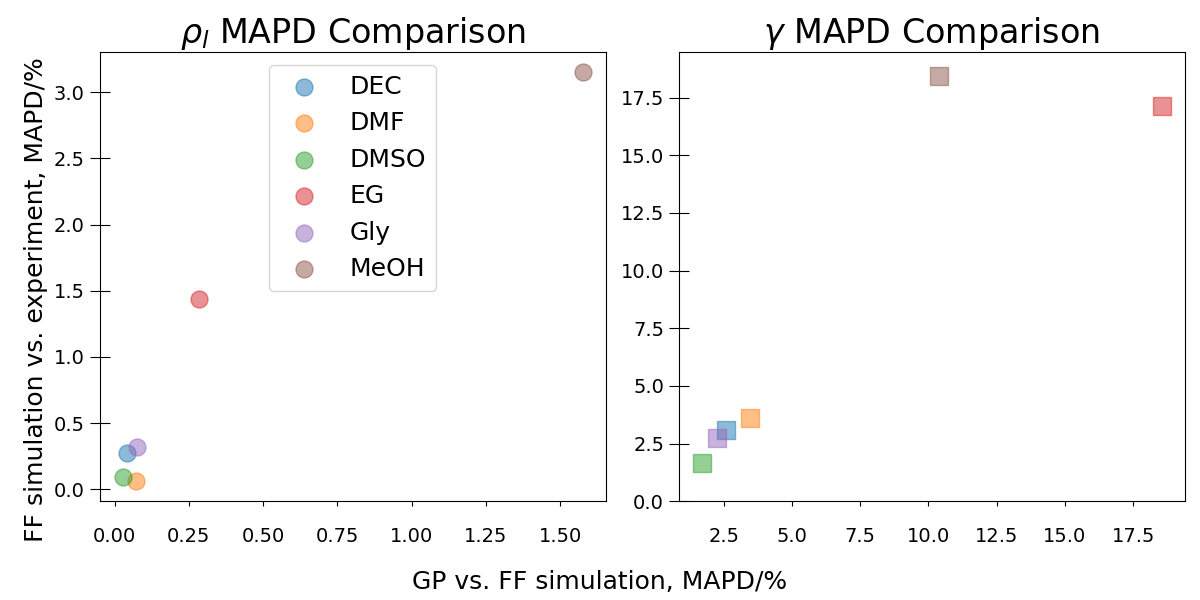
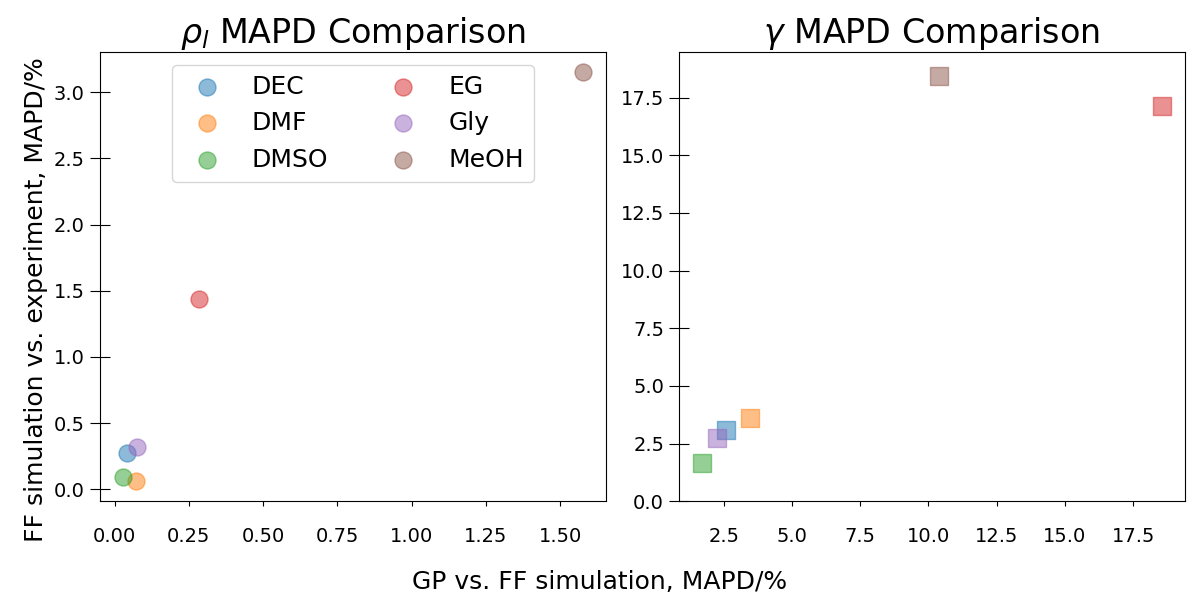
Use a two-column legend in the MAPD comparison figure
Cosmetic only. The six-entry single-column legend left the upper-left panel
mostly empty and crowded the MeOH point; ncol=2 makes it a compact 3x2 block.

Applied to all three paths (make_GP_vs_sim_and_sens.py, the equivalent block in
create_analysis_figs.ipynb, and scripts/replot_mapd_comparison.py) so they stay
in sync. Data unchanged: MAPD_comp_bestFF.csv is still byte-identical
(md5 9d820065b78f68bde290d6612636ca4a).

Changed region(s): [[0.2158, 0.12, 0.4625, 0.48], [0.1542, 0.12, 0.185, 0.3]]

diff --git a/make_GP_vs_sim_and_sens.py b/make_GP_vs_sim_and_sens.py
@@ -143,7 +143,7 @@ for i, property_name in enumerate(data_df["Property Name"].unique()):
         axes[i].set_ylim(0, max_mapd*1.05)
         # axes[i].set_xlabel(f"GP-Predicted MAPD", fontsize = 18)
     else:
-        axes[i].legend(loc="upper center", fontsize = 18)
+        axes[i].legend(loc="upper center", fontsize = 18, ncol=2)
     axes[i].tick_params("y", direction="inout", which="both", length=7)
     axes[i].tick_params("y", which="major", length=14)
     axes[i].tick_params("x", pad=15)

diff --git a/scripts/replot_mapd_comparison.py b/scripts/replot_mapd_comparison.py
@@ -69,7 +69,7 @@ def main():
         if i == 1:
             axes[i].set_ylim(0, max_mapd * 1.05)
         else:
-            axes[i].legend(loc="upper center", fontsize=18)
+            axes[i].legend(loc="upper center", fontsize=18, ncol=2)
         axes[i].tick_params("y", direction="inout", which="both", length=7)
         axes[i].tick_params("y", which="major", length=14)
         axes[i].tick_params("x", pad=15)
